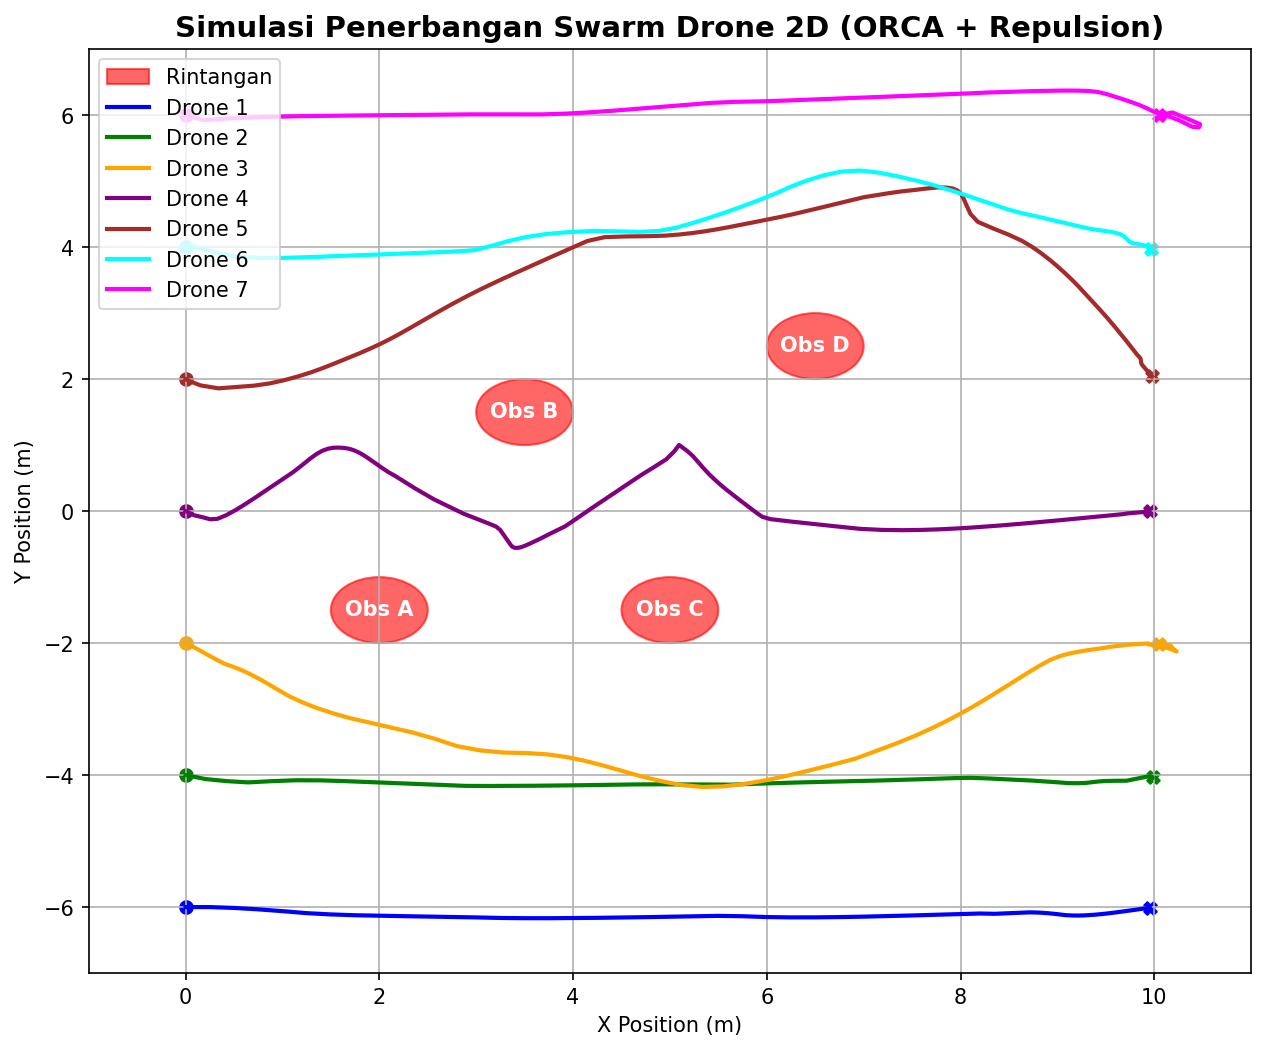
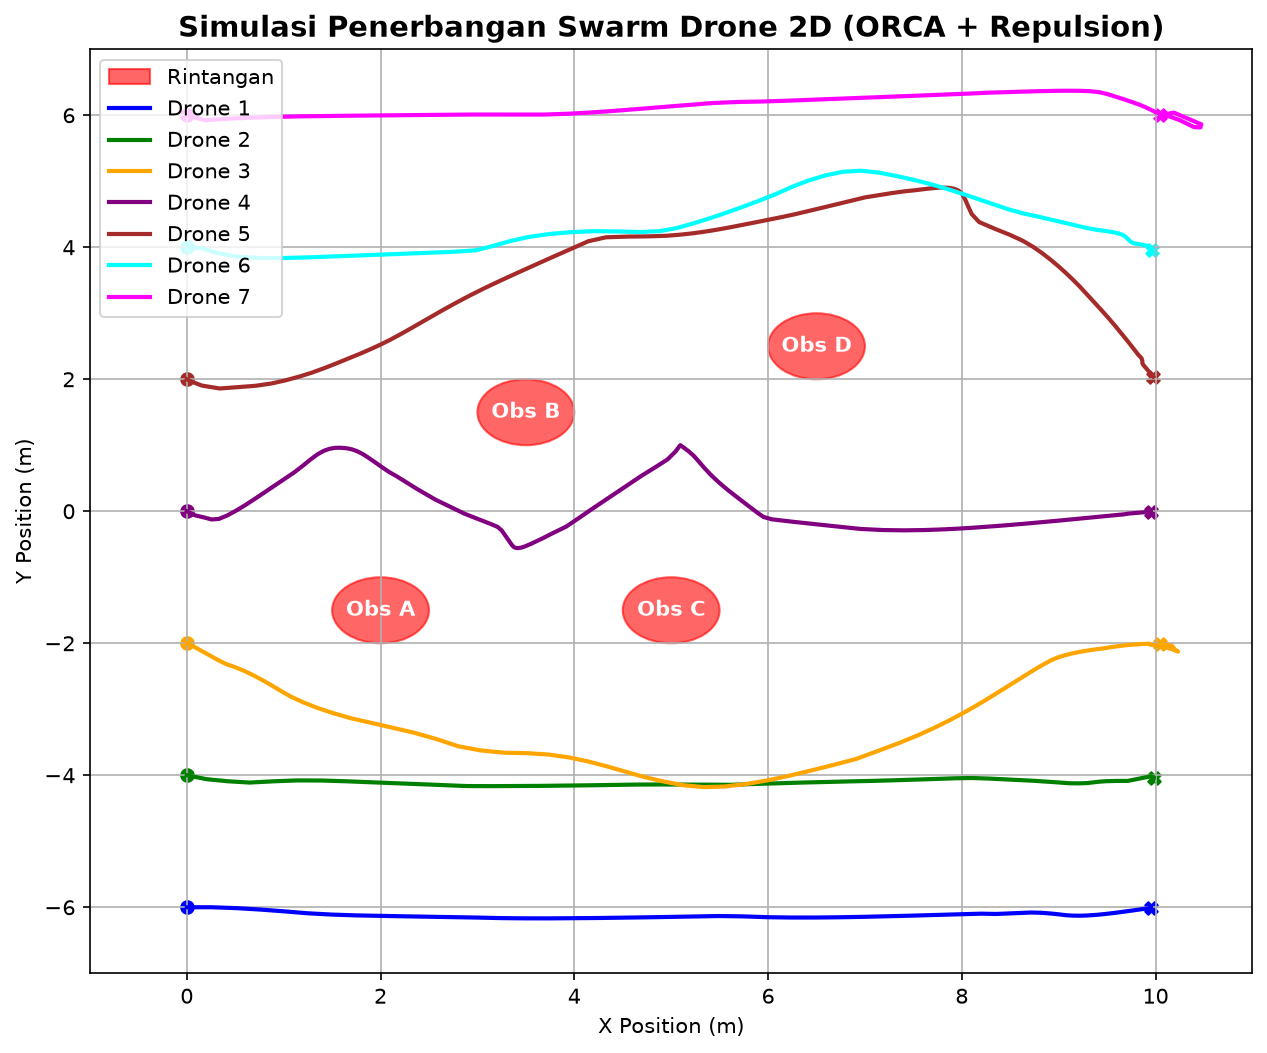
refactor: implement angle-thrust compensation in PID controller and optimize collision avoidance logic for low-altitude lidar interference

diff --git a/swarm_ws/src/swarm_mid_level/swarm_mid_level/collision_avoidance_node.py b/swarm_ws/src/swarm_mid_level/swarm_mid_level/collision_avoidance_node.py
@@ -168,12 +168,12 @@ class CollisionAvoidanceNode(Node):
         super().__init__('collision_avoidance_node')
 
         # Parameters
-        self.declare_parameter('max_speed', 2.5)
+        self.declare_parameter('max_speed', 1.5)
         self.declare_parameter('target_z_height', 2.0)
         self.declare_parameter('dt', 0.1)
         self.declare_parameter('drone_id', 1)
         self.declare_parameter('num_drones', 7)
-        self.declare_parameter('safety_radius', 0.8) # 0.8m radius -> 1.6m center-to-center = 80cm prop clearance
+        self.declare_parameter('safety_radius', 0.8) # 0.8m radius -> 1.6m center-to-center
         self.declare_parameter('time_horizon', 5.0)
 
         self.max_speed = self.get_parameter('max_speed').value
@@ -182,7 +182,7 @@ class CollisionAvoidanceNode(Node):
         self.num_drones = self.get_parameter('num_drones').value
         self.safety_radius = self.get_parameter('safety_radius').value
         self.time_horizon = self.get_parameter('time_horizon').value
-        self.lookahead_damping = 0.15
+        self.lookahead_damping = 0.0
 
         node_name = self.get_name()
         if '_' in node_name and node_name.split('_')[-1].isdigit():
@@ -204,8 +204,8 @@ class CollisionAvoidanceNode(Node):
         
         # Target awal waypoint = lokasi formation spawn persis
         spacing = 2.0
-        spawn_y = float((did - 4.0) * spacing)
-        self.target_waypoint = np.array([0.0, spawn_y], dtype=np.float32)
+        self.spawn_y = float((did - 4.0) * spacing)
+        self.target_waypoint = np.array([0.0, self.spawn_y], dtype=np.float32)
         self.waypoint_received = False
         self.lidar_ranges = np.ones(360, dtype=np.float32) * 10.0
         self.steps = 0
@@ -352,22 +352,29 @@ class CollisionAvoidanceNode(Node):
             # Deselerasi halus saat mendekati titik tujuan agar tidak overshoot (tuning 0.8)
             speed = min(self.max_speed, dist_to_target * 0.8)
             pref_vel = (rel_target / dist_to_target) * speed
+            
+            # Lane-keeping restoring force to pull the drone back to Y_spawn lane
+            # Only apply if we are actively flying (dist_to_target > 0.5m)
+            if dist_to_target > 0.5:
+                y_err = self.current_pos[1] - self.spawn_y
+                y_restore = -0.35 * y_err  # restoring proportional gain
+                y_restore = np.clip(y_restore, -0.6, 0.6) # clip to prevent excessive lateral commands
+                pref_vel[1] += y_restore
 
         # 1b. Break head-on symmetry (COLREGs Turn-Right Rule)
         # Jika ada tetangga dekat di depan arah preferred velocity, geser preferred velocity sedikit ke kanan
         for nbr in self.neighbors_state.values():
             rel_nbr = nbr['pos'] - self.current_pos[:2]
             dist_nbr = float(np.linalg.norm(rel_nbr))
-            if dist_nbr < 3.5:
+            if dist_nbr < 2.5:
                 pref_speed = np.linalg.norm(pref_vel)
                 if pref_speed > 0.1:
                     unit_pref = pref_vel / pref_speed
                     unit_nbr = rel_nbr / max(dist_nbr, 0.05)
                     dot_front = np.dot(unit_pref, unit_nbr)
-                    if dot_front > 0.85:  # Head-on tepat di depan (sudut < 30 derajat)
-                        # Hitung vektor tegak lurus ke kanan: (dy, -dx)
+                    if dot_front > 0.85:
                         right_vec = np.array([unit_pref[1], -unit_pref[0]], dtype=np.float32)
-                        bias_gain = 0.25 * (1.0 - (dist_nbr / 3.5))
+                        bias_gain = 0.1 * (1.0 - (dist_nbr / 2.5))
                         pref_vel += right_vec * (self.max_speed * bias_gain)
 
         # 2. Extract neighbor drone states and apply Non-Linear Repulsion (Inverse-Square Law)
@@ -384,17 +391,24 @@ class CollisionAvoidanceNode(Node):
                 repulsion_vec += (rel_nbr / dist_nbr) * rep_gain
 
         # 3. Extract static Lidar obstacles as Point-Cloud Obstacles in ORCA
-        # LiDAR obstacle processing always active (no phantom obstacle gate).
-        # GPU LiDAR noise in single-drone headless mode is handled by
-        # the run_single_agent.sh obstacle-processing wrapper.
+        # LiDAR only enabled above 1.5m altitude. Below that (takeoff/landing),
+        # the 2D LiDAR beam hits the ground and creates 360° phantom obstacles,
+        # corrupting ORCA velocity and yaw computation.
         current_yaw = getattr(self, 'current_yaw', 0.0)
         angles_body = np.linspace(-np.pi, np.pi, len(self.lidar_ranges))
         angles_world = current_yaw + angles_body # Transform Lidar body frame to World frame
 
-        obs_mask = self.lidar_ranges < 4.5
+        if self.current_pos[2] > 1.5:
+            obs_mask = self.lidar_ranges < 4.5
+        else:
+            obs_mask = np.zeros(len(self.lidar_ranges), dtype=bool)
 
         if np.any(obs_mask):
             close_indices = np.where(obs_mask)[0]
+            if self.steps % 20 == 0:
+                self.get_logger().info(
+                    f"[LIDAR] Obstacle points: {len(close_indices)} Z={self.current_pos[2]:.2f}m"
+                )
             
             # 3a. Represent Lidar points directly as static ORCA obstacle spheres
             # Downsample to every 6th ray to prevent solver lag
@@ -408,7 +422,7 @@ class CollisionAvoidanceNode(Node):
                 # Filter out teammate drones (already handled in ORCA neighbors)
                 is_neighbor = False
                 for nbr in self.neighbors_state.values():
-                    if np.linalg.norm(obs_pos_i - nbr['pos']) < 0.8:
+                    if np.linalg.norm(obs_pos_i - nbr['pos']) < self.safety_radius:
                         is_neighbor = True
                         break
                 if is_neighbor:
@@ -419,7 +433,7 @@ class CollisionAvoidanceNode(Node):
                     'pos': obs_pos_i,
                     'vel': np.zeros(2, dtype=np.float32),
                     'is_static': True,
-                    'radius': 0.35  # combined radius = 0.8 + 0.35 = 1.15m from ray point
+                    'radius': 0.50  # combined radius = 0.8 + 0.50 = 1.30m from ray point
                 })
 
             # 3b. Non-Linear Repulsion for smooth steering (Hanya jarak dekat < 2.2m untuk mencegah dorong belakang)
@@ -433,7 +447,7 @@ class CollisionAvoidanceNode(Node):
                 # Filter out teammate drones
                 is_neighbor = False
                 for nbr in self.neighbors_state.values():
-                    if np.linalg.norm(obs_pos_i - nbr['pos']) < 0.8:
+                    if np.linalg.norm(obs_pos_i - nbr['pos']) < self.safety_radius:
                         is_neighbor = True
                         break
                 if is_neighbor:
@@ -463,7 +477,7 @@ class CollisionAvoidanceNode(Node):
             obs_pos_min = self.current_pos[:2] + obs_rel_min
             is_neighbor_min = False
             for nbr in self.neighbors_state.values():
-                if np.linalg.norm(obs_pos_min - nbr['pos']) < 0.8:
+                if np.linalg.norm(obs_pos_min - nbr['pos']) < self.safety_radius:
                     is_neighbor_min = True
                     break
 
@@ -477,7 +491,7 @@ class CollisionAvoidanceNode(Node):
 
         # Cap total repulsion vector magnitude to prevent extreme force spikes
         rep_len = float(np.linalg.norm(repulsion_vec))
-        max_rep = self.max_speed * 0.75  # Increased from 0.4 to 0.75 to handle tight corridor squeezing
+        max_rep = self.max_speed * 0.4
         if rep_len > max_rep:
             repulsion_vec = (repulsion_vec / rep_len) * max_rep
 
@@ -527,43 +541,44 @@ class CollisionAvoidanceNode(Node):
         self.cmd_vel_smooth += dv
         out_vx, out_vy = float(self.cmd_vel_smooth[0]), float(self.cmd_vel_smooth[1])
 
-        # 5b. Responsive Heading-Tracking Yaw Control (World-Frame Velocity)
+        # 5b. Yaw Control — Hybrid Waypoint + Velocity Blend
+        #   Default: waypoint direction (forward-pointing, stabil)
+        #   Saat vel arah > 90° beda dari waypoint (aggressive avoidance), blend ke velocity
+        #   Ini prevents yaw error besar tanpa bikin drone kehilangan arah.
         if not hasattr(self, 'yaw_smooth'):
             self.yaw_smooth = getattr(self, 'spawn_yaw', 0.0)
 
-        YAW_DEADBAND = 0.15  # m/s — freeze yaw jika kecepatan sangat kecil / hover
-        MAX_DELTA_YAW = np.radians(15)  # max 15°/step @ 10Hz = 150°/s
+        YAW_SPEED_DEADBAND = 0.15
+        YAW_DIST_DEADBAND = 0.8
+        YAW_FILTER_ALPHA = 0.25
 
-        # Kecepatan dari command (intended velocity) — langsung, tanpa lag fisik odometry
         cmd_speed = float(np.sqrt(out_vx**2 + out_vy**2))
+        dx_target = self.target_waypoint[0] - self.current_pos[0]
+        dy_target = self.target_waypoint[1] - self.current_pos[1]
+        wp_angle = float(np.arctan2(dy_target, dx_target))
 
-        if self.waypoint_received and dist_to_target > 0.8:
-            # Arah dari waypoint (stabil di low speed / hover)
-            dx_target = self.target_waypoint[0] - self.current_pos[0]
-            dy_target = self.target_waypoint[1] - self.current_pos[1]
-            yaw_waypoint = float(np.arctan2(dy_target, dx_target))
-
-            # Arah dari intended velocity (command, bukan odometry) — anticipate langsung
-            if cmd_speed > YAW_DEADBAND:
-                yaw_intended = float(np.arctan2(out_vy, out_vx))
+        if self.waypoint_received and cmd_speed > YAW_SPEED_DEADBAND and dist_to_target > YAW_DIST_DEADBAND:
+            vel_angle = float(np.arctan2(out_vy, out_vx))
+            diff = vel_angle - wp_angle
+            diff = (diff + np.pi) % (2 * np.pi) - np.pi
+            diff_abs = float(np.abs(diff))
+            # Blend toward velocity direction when > 90° from waypoint (aggressive avoidance)
+            if diff_abs > np.pi / 2:
+                blend = min(1.0, (diff_abs - np.pi / 2) / (np.pi / 2))
+                yaw_target = (1.0 - blend) * wp_angle + blend * vel_angle
             else:
-                yaw_intended = yaw_waypoint
-
-            # Blend: speed > 1.5 → pure intended, speed < 0.5 → pure waypoint
-            blend = np.clip((cmd_speed - 0.5) / 1.0, 0.0, 1.0)
-            yaw_diff = (yaw_intended - yaw_waypoint + np.pi) % (2 * np.pi) - np.pi
-            yaw_target = yaw_waypoint + blend * yaw_diff
-
-            delta_yaw = (yaw_target - self.yaw_smooth + np.pi) % (2 * np.pi) - np.pi
-            delta_yaw = np.clip(delta_yaw, -MAX_DELTA_YAW, MAX_DELTA_YAW)
-
-            self.yaw_smooth += delta_yaw
-            self.yaw_smooth = (self.yaw_smooth + np.pi) % (2 * np.pi) - np.pi
-
-            # Simpan yaw_rate untuk feedforward ke low-level PID
-            yaw_rate = delta_yaw / self.dt
+                yaw_target = wp_angle
         else:
-            yaw_rate = 0.0
+            yaw_target = wp_angle
+
+        delta_yaw = (yaw_target - self.yaw_smooth + np.pi) % (2 * np.pi) - np.pi
+        yaw_step = YAW_FILTER_ALPHA * delta_yaw
+        MAX_YAW_STEP = 0.262
+        yaw_step = np.clip(yaw_step, -MAX_YAW_STEP, MAX_YAW_STEP)
+        self.yaw_smooth += yaw_step
+        self.yaw_smooth = (self.yaw_smooth + np.pi) % (2 * np.pi) - np.pi
+
+        yaw_rate = yaw_step / self.dt
 
         # Encode yaw_smooth ke quaternion orientation (roll=0, pitch=0, yaw=yaw_smooth)
         half_yaw = self.yaw_smooth * 0.5
@@ -589,6 +604,13 @@ class CollisionAvoidanceNode(Node):
 
         self.pos_ref[0] += out_vx * self.dt
         self.pos_ref[1] += out_vy * self.dt
+
+        # Synchronize pos_ref to current_pos if tracking error is too large (> 0.2m)
+        # This keeps the reference trajectory tethered to the actual drone position,
+        # preventing the reference from running away and violating ORCA distance constraints.
+        tracking_err = np.linalg.norm(self.pos_ref - self.current_pos[:2])
+        if tracking_err > 0.2:
+            self.pos_ref = self.current_pos[:2] + (self.pos_ref - self.current_pos[:2]) * (0.2 / tracking_err)
 
         # Clamp: jangan melampaui waypoint (anti-overshoot)
         if self.target_waypoint[0] <= self.current_pos[0]:

diff --git a/swarm_ws/src/swarm_low_level/swarm_low_level/pid_lqr_node.py b/swarm_ws/src/swarm_low_level/swarm_low_level/pid_lqr_node.py
@@ -84,7 +84,7 @@ class PIDLQRNode(Node):
         self.pid_y_in  = PID(gains['y_inner']['Kp'], gains['y_inner']['Ki'], gains['y_inner']['Kd'], self.dt, -self.limits['tau_rp_max'], self.limits['tau_rp_max'])
         
         self.pid_z   = PID(gains['z']['Kp'], gains['z']['Ki'], gains['z']['Kd'], self.dt, -self.limits['thrust_max'], self.limits['thrust_max'])
-        self.pid_yaw = PID(gains['yaw']['Kp'] * 1.5, gains['yaw']['Ki'] * 1.5, gains['yaw']['Kd'], self.dt, -self.limits['tau_y_max'], self.limits['tau_y_max'])
+        self.pid_yaw = PID(gains['yaw']['Kp'] * 1.0, gains['yaw']['Ki'] * 1.0, gains['yaw']['Kd'], self.dt, -self.limits['tau_y_max'], self.limits['tau_y_max'])
         
         # Konstanta Fisika dan Matriks Mixer
         self.g = self.params['g']
@@ -325,11 +325,17 @@ class PIDLQRNode(Node):
         err_z = self.filt_z[0] - z
         uz_pid = self.pid_z.compute(err_z, reset_derivative=reset_derivative) 
         
+        # Angle-Thrust Compensation (compensates for vertical force loss due to tilt)
+        cos_phi = math.cos(phi)
+        cos_theta = math.cos(theta)
+        tilt_comp = 1.0 / max(cos_phi * cos_theta, 0.7)
+        u_thrust = (uz_pid + (self.m * self.g)) * tilt_comp
+        
         # Normalisasi error yaw ke range [-pi, pi] untuk menghindari loncat 2pi
         err_yaw = (yaw_cmd_norm - yaw + np.pi) % (2 * np.pi) - np.pi
         uyaw_pid = self.pid_yaw.compute(err_yaw, reset_derivative=reset_derivative) + self.k_ff_yaw * self.yaw_rate_cmd
         
-        U_cmd = np.array([uz_pid + (self.m * self.g), ux_pid, uy_pid, uyaw_pid])
+        U_cmd = np.array([u_thrust, ux_pid, uy_pid, uyaw_pid])
         
         w_sq_cmd = self.M_inv @ U_cmd
         w_cmd = np.sqrt(np.maximum(w_sq_cmd, 0)) 

diff --git a/swarm_ws/src/swarm_low_level/swarm_low_level/pid_hinf_node.py b/swarm_ws/src/swarm_low_level/swarm_low_level/pid_hinf_node.py
@@ -320,11 +320,17 @@ class PIDHinfNode(Node):
         err_z = self.filt_z[0] - z
         uz_pid = self.pid_z.compute(err_z, reset_derivative=reset_derivative) 
         
+        # Angle-Thrust Compensation (compensates for vertical force loss due to tilt)
+        cos_phi = math.cos(phi)
+        cos_theta = math.cos(theta)
+        tilt_comp = 1.0 / max(cos_phi * cos_theta, 0.7)
+        u_thrust = (uz_pid + (self.m * self.g)) * tilt_comp
+        
         # Normalisasi error yaw ke range [-pi, pi] untuk menghindari loncat 2pi
         err_yaw = (yaw_cmd_norm - yaw + np.pi) % (2 * np.pi) - np.pi
         uyaw_pid = self.pid_yaw.compute(err_yaw, reset_derivative=reset_derivative)
         
-        U_cmd = np.array([uz_pid + (self.m * self.g), ux_pid, uy_pid, uyaw_pid])
+        U_cmd = np.array([u_thrust, ux_pid, uy_pid, uyaw_pid])
         
         w_sq_cmd = self.M_inv @ U_cmd
         w_cmd = np.sqrt(np.maximum(w_sq_cmd, 0)) 

diff --git a/Debug/7_drones_test_waypoint.md b/Debug/7_drones_test_waypoint.md
@@ -1,0 +1,61 @@
+Kamu adalah AI yang membantu menyelesaikan masalah multi-agent drone swarm obstacle avoidance di simulasi ROS 2 Gazebo. Berikut sistem dan masalahnya:
+Sistem
+Ada 7 drone quadrotor (Iris) yang terbang formasi dari garis start menuju target X=10, melewati 4 obstacle berbentuk tiang. Setiap drone punya:
+1. ORCA (Optimal Reciprocal Collision Avoidance) — menghitung kecepatan aman 2D supaya tidak tabrak drone lain dan obstacle
+2. Sensor LiDAR 360° — mendeteksi obstacle statis
+3. Gaya tolak (repulsion field) — inverse-square law, bantu dorong drone menjauh
+4. COLREGs bias — aturan belok kanan untuk pecah simetri head-on
+5. Low-level PID controller — mengeksekusi kecepatan + yaw dari ORCA ke motor
+Formasi awal: 7 drone berjejer di Y = -6, -4, -2, 0, +2, +4, +6 (jarak 2m).
+Posisi obstacle (tiang, radius ~0.25m):
+- A: di Y=-1.5, X=2
+- B: di Y=+1.5, X=3.5
+- C: di Y=-1.5, X=5
+- D: di Y=+2.5, X=6.5
+Drone 3 (Y=-2) dan 4 (Y=0) harus lewat di antara obstacle A dan B. Drone 5 (Y=+2) lewat antara B dan D.
+Semua drone dikirim waypoint X=10 (Y tetap sama dengan spawn).
+Masalah Utama
+Simulasi di GUI mode terlihat tidak stabil dan obstacle avoidance hampir gagal:
+1. Yaw error sangat besar (sampai 175°) — Drone terbang mundur. Saat ORCA mendorong drone ke samping untuk menghindar, arah yaw yang mengikuti arah waypoint tiba-tiba berubah drastis. Akibatnya PID yaw berantakan dan drone terlihat berputar-putar tidak karuan.
+2. Clearance obstacle terlalu tipis — Drone lewat hanya 8cm dari permukaan obstacle (berisiko tabrak).
+3. Drone 6 turun drastis — Z drop sampai 1.6m (harusnya 2m), dekat dengan ground.
+4. Beberapa drone overshoot Y — Misal Drone 2 yang spawn di Y=-4 melayang sampai Y=-11.64.
+Workflow
+Berikut urutan langkah yang harus kamu lakukan — kerjakan satu per satu secara berurutan:
+Step 1: Pahami Kode
+- Baca seluruh file collision_avoidance_node.py (mid-level ORCA + yaw logic)
+- Baca file pid_lqr_node.py (low-level PID + yaw controller)
+- Baca file empty.world (posisi obstacle)
+- Baca file test_waypoints.py (cara kirim waypoint)
+- Cari yaw control, ORCA solver, repulsion field, COLREGs bias, velocity limiter, slew rate limiter, dan PID yaw gain
+Step 2: Analisis
+Identifikasi semua titik yang berkontribusi ke 4 masalah di atas. Cari hubungan antara:
+- Yaw direction logic → yaw error → backward flight
+- Repulsion cap + COLREGs → lateral overshoot
+- max_speed + slew rate → Z stability
+- Velocity-direction yaw → positive feedback loop
+Step 3: Usulkan Solusi
+Beri saran konkret berupa:
+- Fungsi/baris mana yang harus diubah
+- Nilai parameter baru
+- Logika baru (jelaskan dalam pseudocode)
+Step 4: Implementasi Satu Per Satu
+Jangan langsung implement semua. Kerjakan secara bertahap:
+1. Mulai dengan perubahan paling sederhana dulu
+2. Setelah setiap perubahan, jalankan test (headless mode)
+3. Analisis hasil dari CSV tiap drone (lokasi: folder hasil simulasi)
+4. Dari hasil, putuskan apakah perubahan membantu atau perlu di-rollback
+5. Lanjut ke perubahan berikutnya
+Cara test:
+- Jalankan run_multi_agent.sh untuk launch sim headless
+- Jalankan test_waypoints.py di terminal lain
+- Tunggu sampai semua drone mencapai X=10
+- Analisis CSV (kolom: Time, X, Y, Z, Yaw, Ref_Yaw, body rates, RPM)
+- Matikan sim, lanjut ke iterasi berikutnya
+Jika suatu perubahan membuat hasil lebih buruk (crash, overshoot lebih parah, dll), rollback dan coba pendekatan lain.
+Yang Perlu Dibantu
+1. Strategi yaw: Apa cara terbaik menentukan arah yaw drone — ikut arah waypoint, arah velocity, atau hybrid? Pertimbangkan trade-off antara stabilitas visual vs akurasi trajectory.
+2. Obstacle clearance: Bagaimana meningkatkan jarak aman dari obstacle tanpa membuat drone oleng atau crash?
+3. Z stability: Apa penyebab Z drop dan bagaimana mencegahnya?
+4. Lateral overshoot: Bagaimana mencegah drone melayang terlalu jauh ke samping saat menghindar?
+5. Perbedaan GUI vs headless: Apa yang mungkin berbeda saat sim di-render dengan GUI?